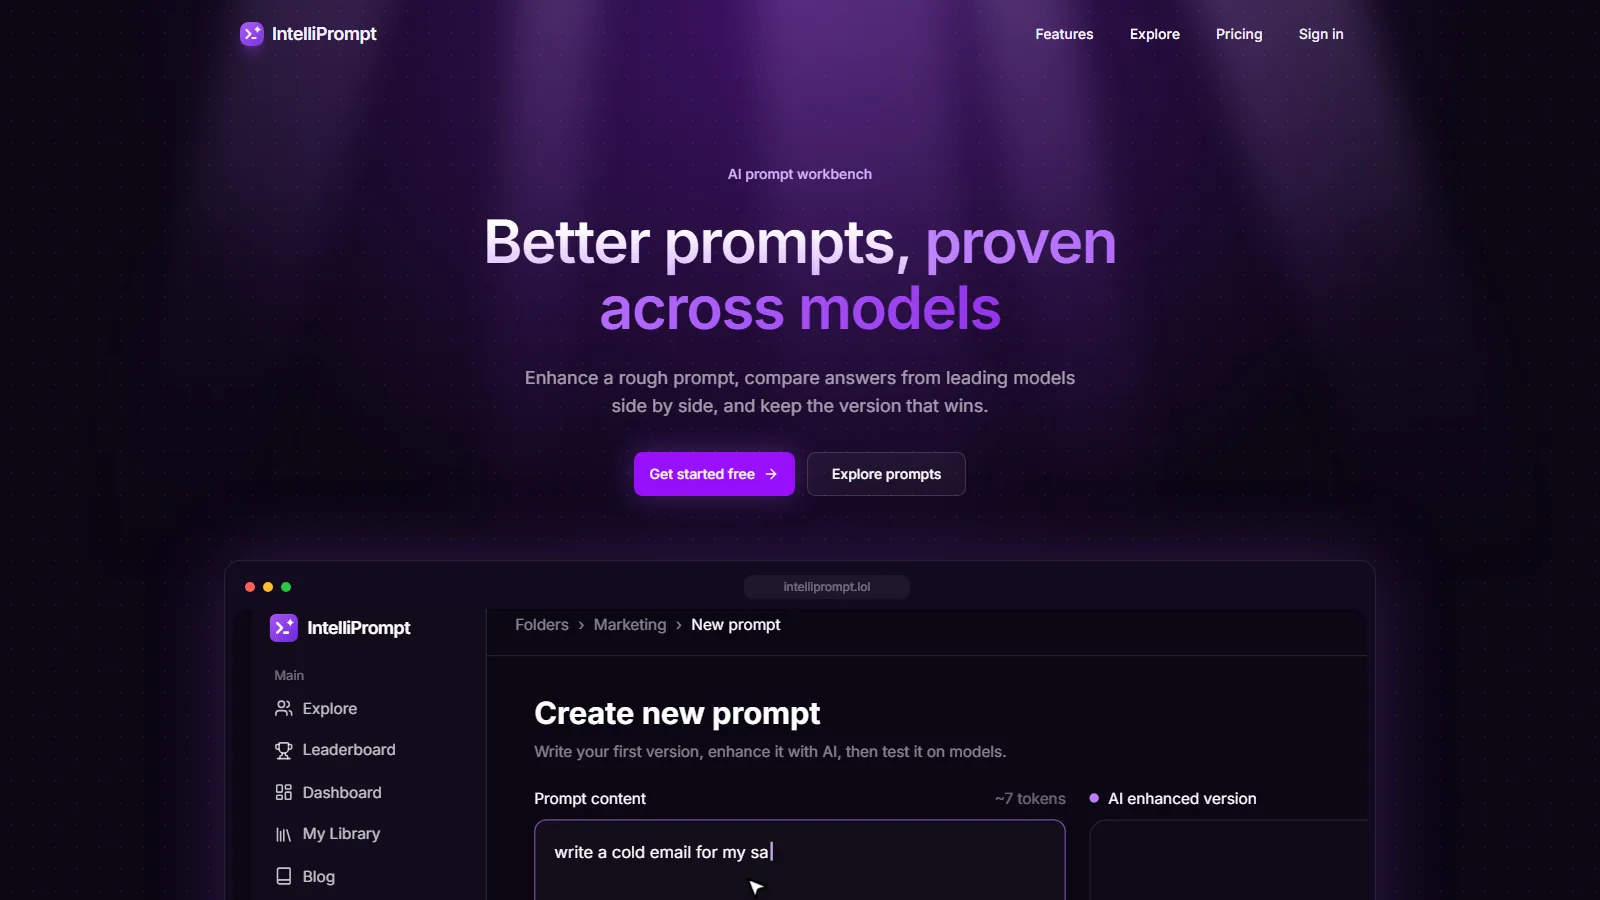
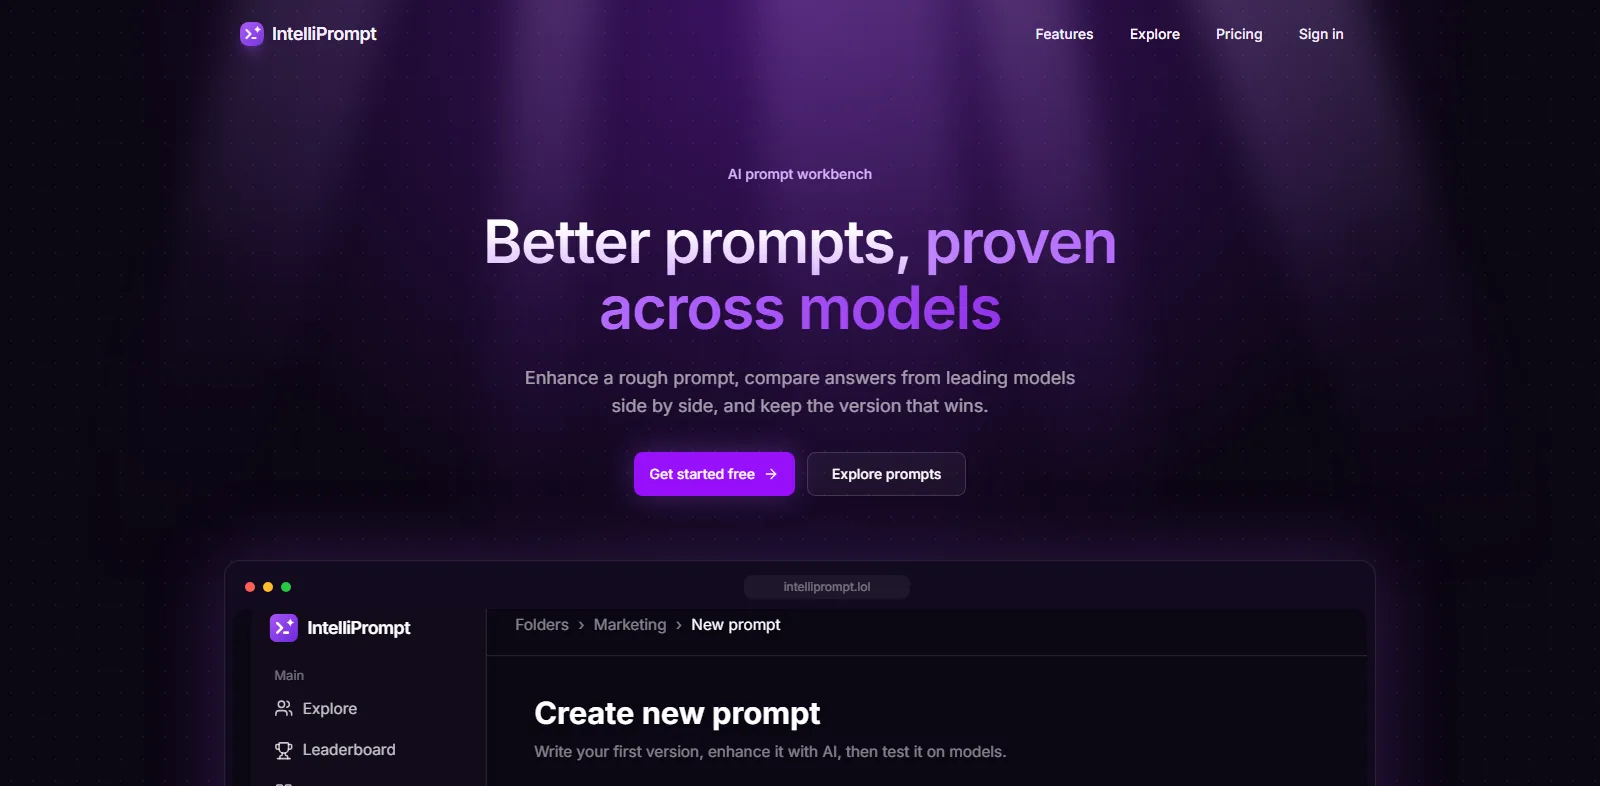
Projects: subtle per-image accent borders, IntelliPrompt cover cropped to match, drop 'Read case study'

diff --git a/src/components/sub/projectSection.tsx b/src/components/sub/projectSection.tsx
@@ -1,13 +1,12 @@
 'use client';
 
-import { useEffect, useRef, useState } from 'react';
+import { useEffect, useRef, useState, type CSSProperties } from 'react';
 import Image from 'next/image';
-import Link from 'next/link';
 import type { Project } from '@/data/projects';
 
 export type CarouselProject = Pick<
   Project,
-  'slug' | 'name' | 'kind' | 'role' | 'summary' | 'image' | 'technologies' | 'live' | 'github' | 'githubLabel'
+  'slug' | 'name' | 'kind' | 'role' | 'summary' | 'image' | 'accent' | 'technologies' | 'live' | 'github' | 'githubLabel'
 >;
 
 /**
@@ -93,12 +92,6 @@ export default function ProjectCarousel({ projects }: { projects: CarouselProjec
                 ))}
               </ul>
               <div className="flex flex-wrap items-center justify-center gap-4 text-sm font-medium md:justify-start">
-                <Link
-                  href={`/work/${project.slug}`}
-                  className="inline-flex min-h-11 items-center rounded-full bg-purple-700/70 px-5 text-white transition hover:bg-purple-600"
-                >
-                  Read case study
-                </Link>
                 {project.live && (
                   <a href={project.live} target="_blank" rel="noopener noreferrer" className={linkClass}>
                     Live site ↗
@@ -114,13 +107,14 @@ export default function ProjectCarousel({ projects }: { projects: CarouselProjec
 
             <div className="order-1 flex w-full items-center justify-center md:order-2 md:w-3/5">
               <Image
+                style={{ '--accent': project.accent } as CSSProperties}
                 src={project.image}
                 alt={`${project.name} screenshot`}
                 width={800}
                 height={500}
                 sizes="(max-width: 768px) 92vw, 60vw"
                 unoptimized={project.image.endsWith('.svg')}
-                className="h-auto w-auto rounded-md object-contain"
+                className="project-shot h-auto w-auto rounded-md object-contain"
               />
             </div>
           </div>
@@ -132,8 +126,9 @@ export default function ProjectCarousel({ projects }: { projects: CarouselProjec
               key={p.slug}
               onClick={() => go(i, i > index ? 1 : -1)}
               aria-label={`Show ${p.name}`}
-              className={`relative h-14 w-20 cursor-pointer overflow-hidden rounded-lg transition-all duration-300 hover:opacity-80 ${
-                i === index ? 'opacity-100 ring-2 ring-purple-400/70' : 'opacity-40'
+              style={{ '--accent': p.accent } as CSSProperties}
+              className={`project-thumb relative h-14 w-20 cursor-pointer overflow-hidden rounded-lg transition-all duration-300 hover:opacity-80 ${
+                i === index ? 'is-active opacity-100' : 'opacity-40'
               }`}
             >
               <Image src={p.image} alt="" fill sizes="80px" unoptimized={p.image.endsWith('.svg')} className="object-cover" />

diff --git a/src/data/projects.ts b/src/data/projects.ts
@@ -6,6 +6,8 @@ export interface Project {
   period?: string;
   summary: string;
   image: string;
+  // Accent color picked from the cover image, used for its border and glow
+  accent: string;
   technologies: string[];
   live?: string;
   github?: string;
@@ -26,6 +28,7 @@ export const projects: Project[] = [
     summary:
       'AI prompt workbench: enhance a rough prompt, run it on up to 4 of 13 models side by side, and keep the version that wins.',
     image: '/projects/intelliprompt.webp',
+    accent: '#a855f7',
     technologies: ['Next.js', 'PostgreSQL', 'Drizzle', 'Clerk', 'Razorpay', 'OpenRouter', 'BullMQ'],
     live: 'https://www.intelliprompt.lol',
     github: 'https://github.com/MohdZaid259/intelliprompt',
@@ -48,6 +51,7 @@ export const projects: Project[] = [
     summary:
       'Website for a Saudi-based fabric manufacturing and supply company, with CMS-managed content in multiple languages.',
     image: '/projects/lsit.png',
+    accent: '#f97316',
     technologies: ['Next.js', 'Hygraph', 'i18n', 'Tailwind'],
     live: 'https://ls4it.com',
     context:
@@ -66,6 +70,7 @@ export const projects: Project[] = [
     summary:
       'One site for a UAE group running three businesses: general contracting, cybersecurity and building automation.',
     image: '/projects/rd.png',
+    accent: '#3b82f6',
     technologies: ['Next.js', 'ImageKit', 'i18n', 'Tailwind'],
     live: 'https://rdtech-group.com/',
     context:
@@ -85,6 +90,7 @@ export const projects: Project[] = [
     summary:
       'AI document chat: upload several documents, process them in the background, and get answers grounded in their content.',
     image: '/projects/docly.webp',
+    accent: '#60a5fa',
     technologies: ['Node.js', 'Express', 'MongoDB', 'AWS S3', 'BullMQ', 'Redis', 'OpenAI Embeddings'],
     live: 'https://docly-ai.vercel.app/',
     github: 'https://github.com/MohdZaid259/Docly',
@@ -104,6 +110,7 @@ export const projects: Project[] = [
     role: 'Freelance developer',
     summary: 'Marketing site for a one-stop technical services company.',
     image: '/projects/alhaya.png',
+    accent: '#22d3ee',
     technologies: ['Next.js', 'Tailwind'],
     live: 'https://al-haya.vercel.app/',
     context:
@@ -120,6 +127,7 @@ export const projects: Project[] = [
     role: 'Solo',
     summary: 'Full-stack YouTube clone with a custom Node.js backend and YouTube API integration.',
     image: '/projects/yt.png',
+    accent: '#ef4444',
     technologies: ['Next.js', 'Node.js', 'YouTube API', 'MongoDB'],
     live: 'https://yt-frontend-three.vercel.app/',
     github: 'https://github.com/MohdZaid259/Youtube',

diff --git a/src/app/globals.css b/src/app/globals.css
@@ -693,3 +693,15 @@ html[data-splash="seen"] #splash {
 @keyframes fade-out {
   to { opacity: 0; }
 }
+
+/* Project covers: very light border + faint glow in each image's own accent, so dark screenshots have a visible edge */
+.project-shot {
+  border: 1px solid color-mix(in srgb, var(--accent) 15%, transparent);
+  box-shadow: 0 0 8px -3px color-mix(in srgb, var(--accent) 14%, transparent);
+}
+.project-thumb {
+  border: 1px solid color-mix(in srgb, var(--accent) 12%, transparent);
+}
+.project-thumb.is-active {
+  border-color: color-mix(in srgb, var(--accent) 40%, transparent);
+}

diff --git a/src/components/main/projects.tsx b/src/components/main/projects.tsx
@@ -4,13 +4,14 @@ import { projects } from "@/data/projects";
 
 // Only the fields the carousel shows go to the client; case-study text stays on the server
 const carouselProjects = projects.map(
-  ({ slug, name, kind, role, summary, image, technologies, live, github, githubLabel }) => ({
+  ({ slug, name, kind, role, summary, image, accent, technologies, live, github, githubLabel }) => ({
     slug,
     name,
     kind,
     role,
     summary,
     image,
+    accent,
     technologies,
     live,
     github,
